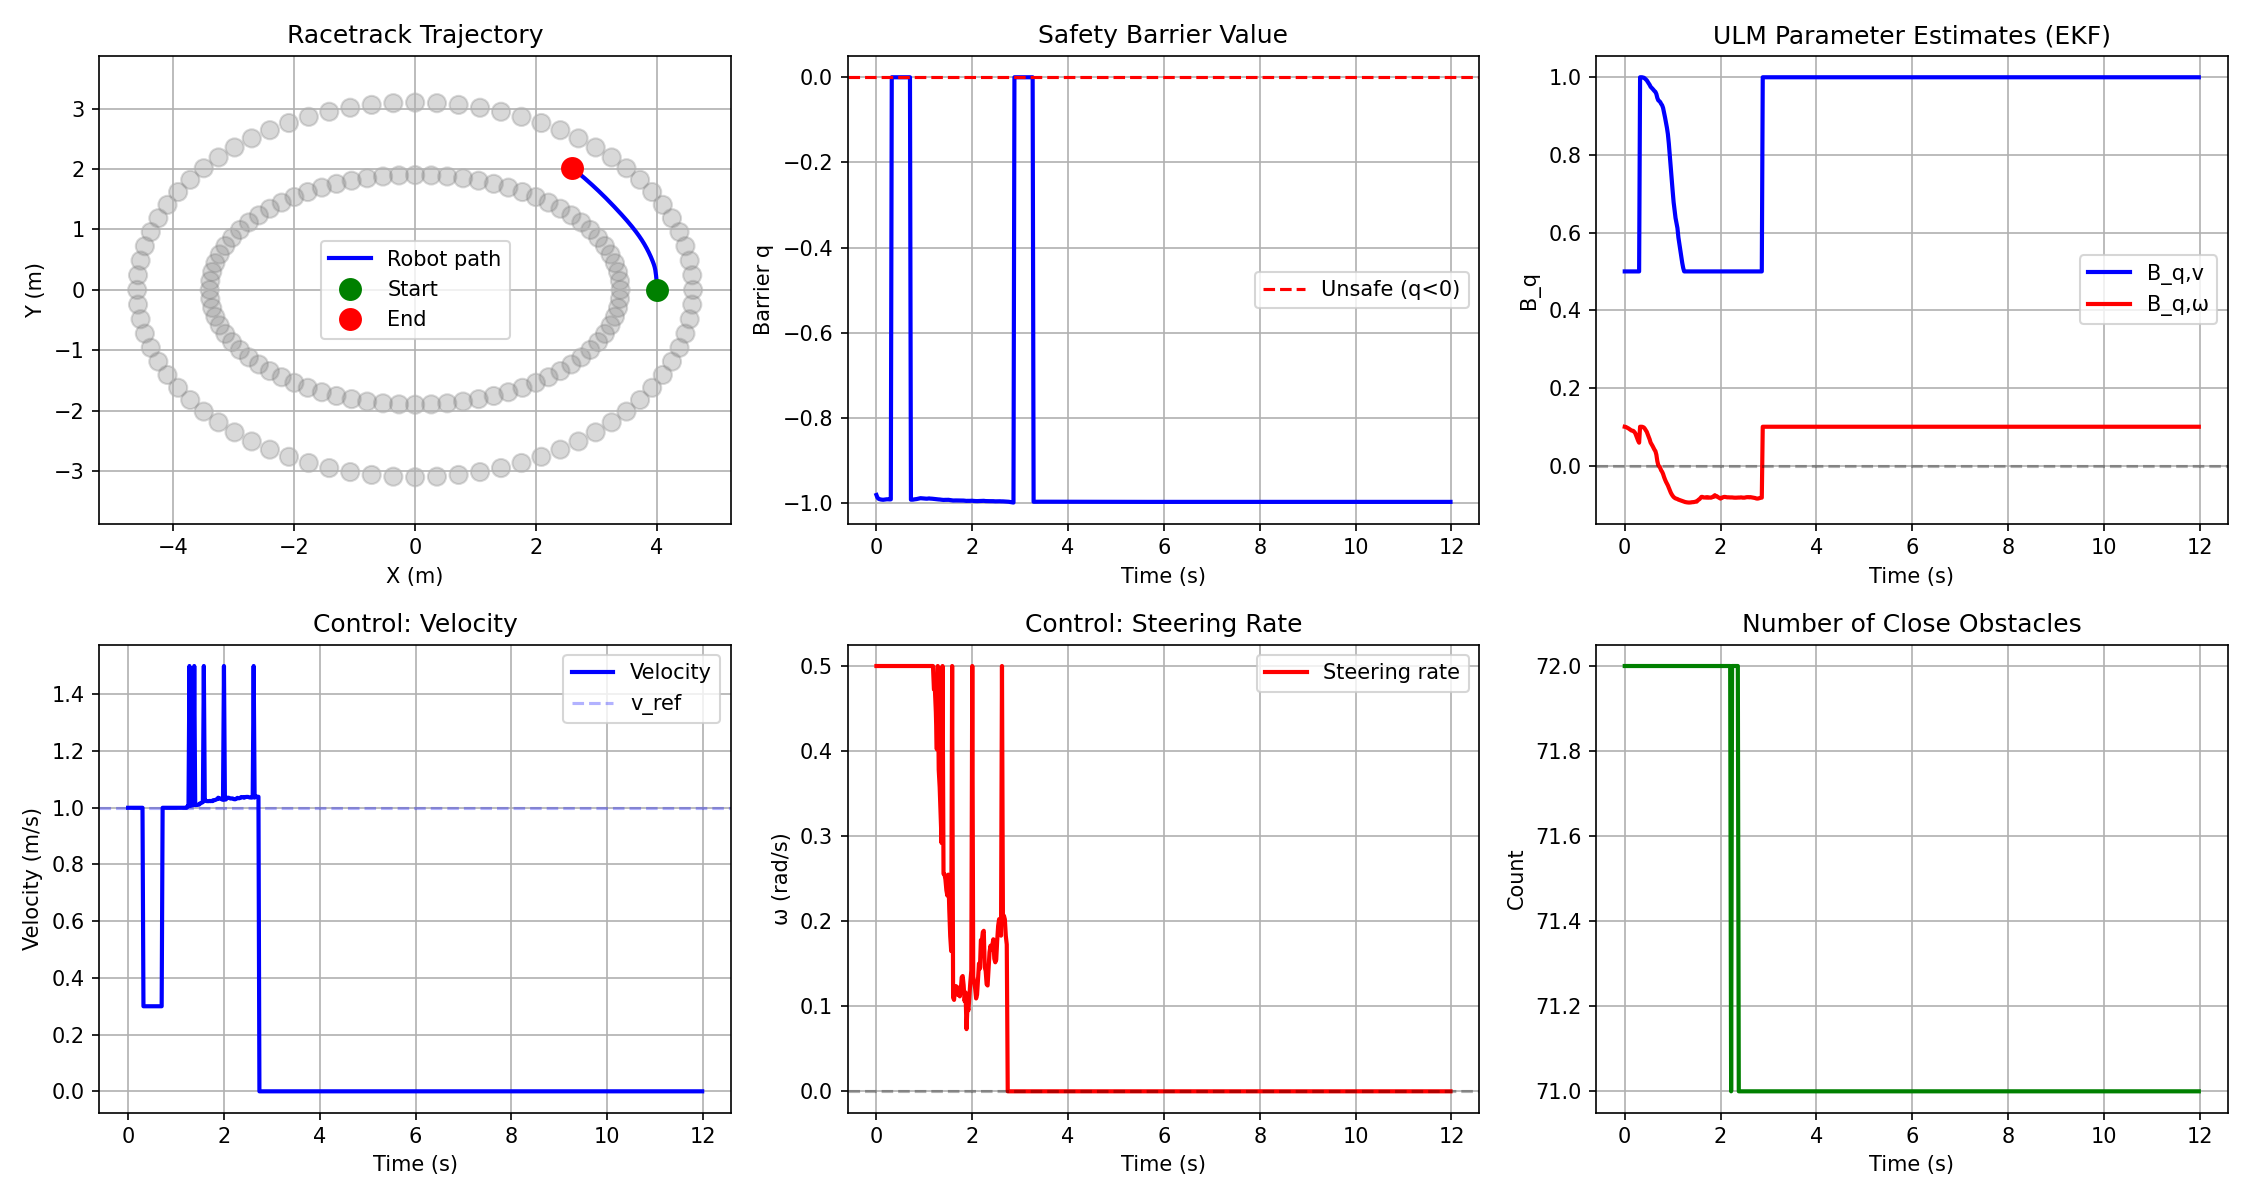
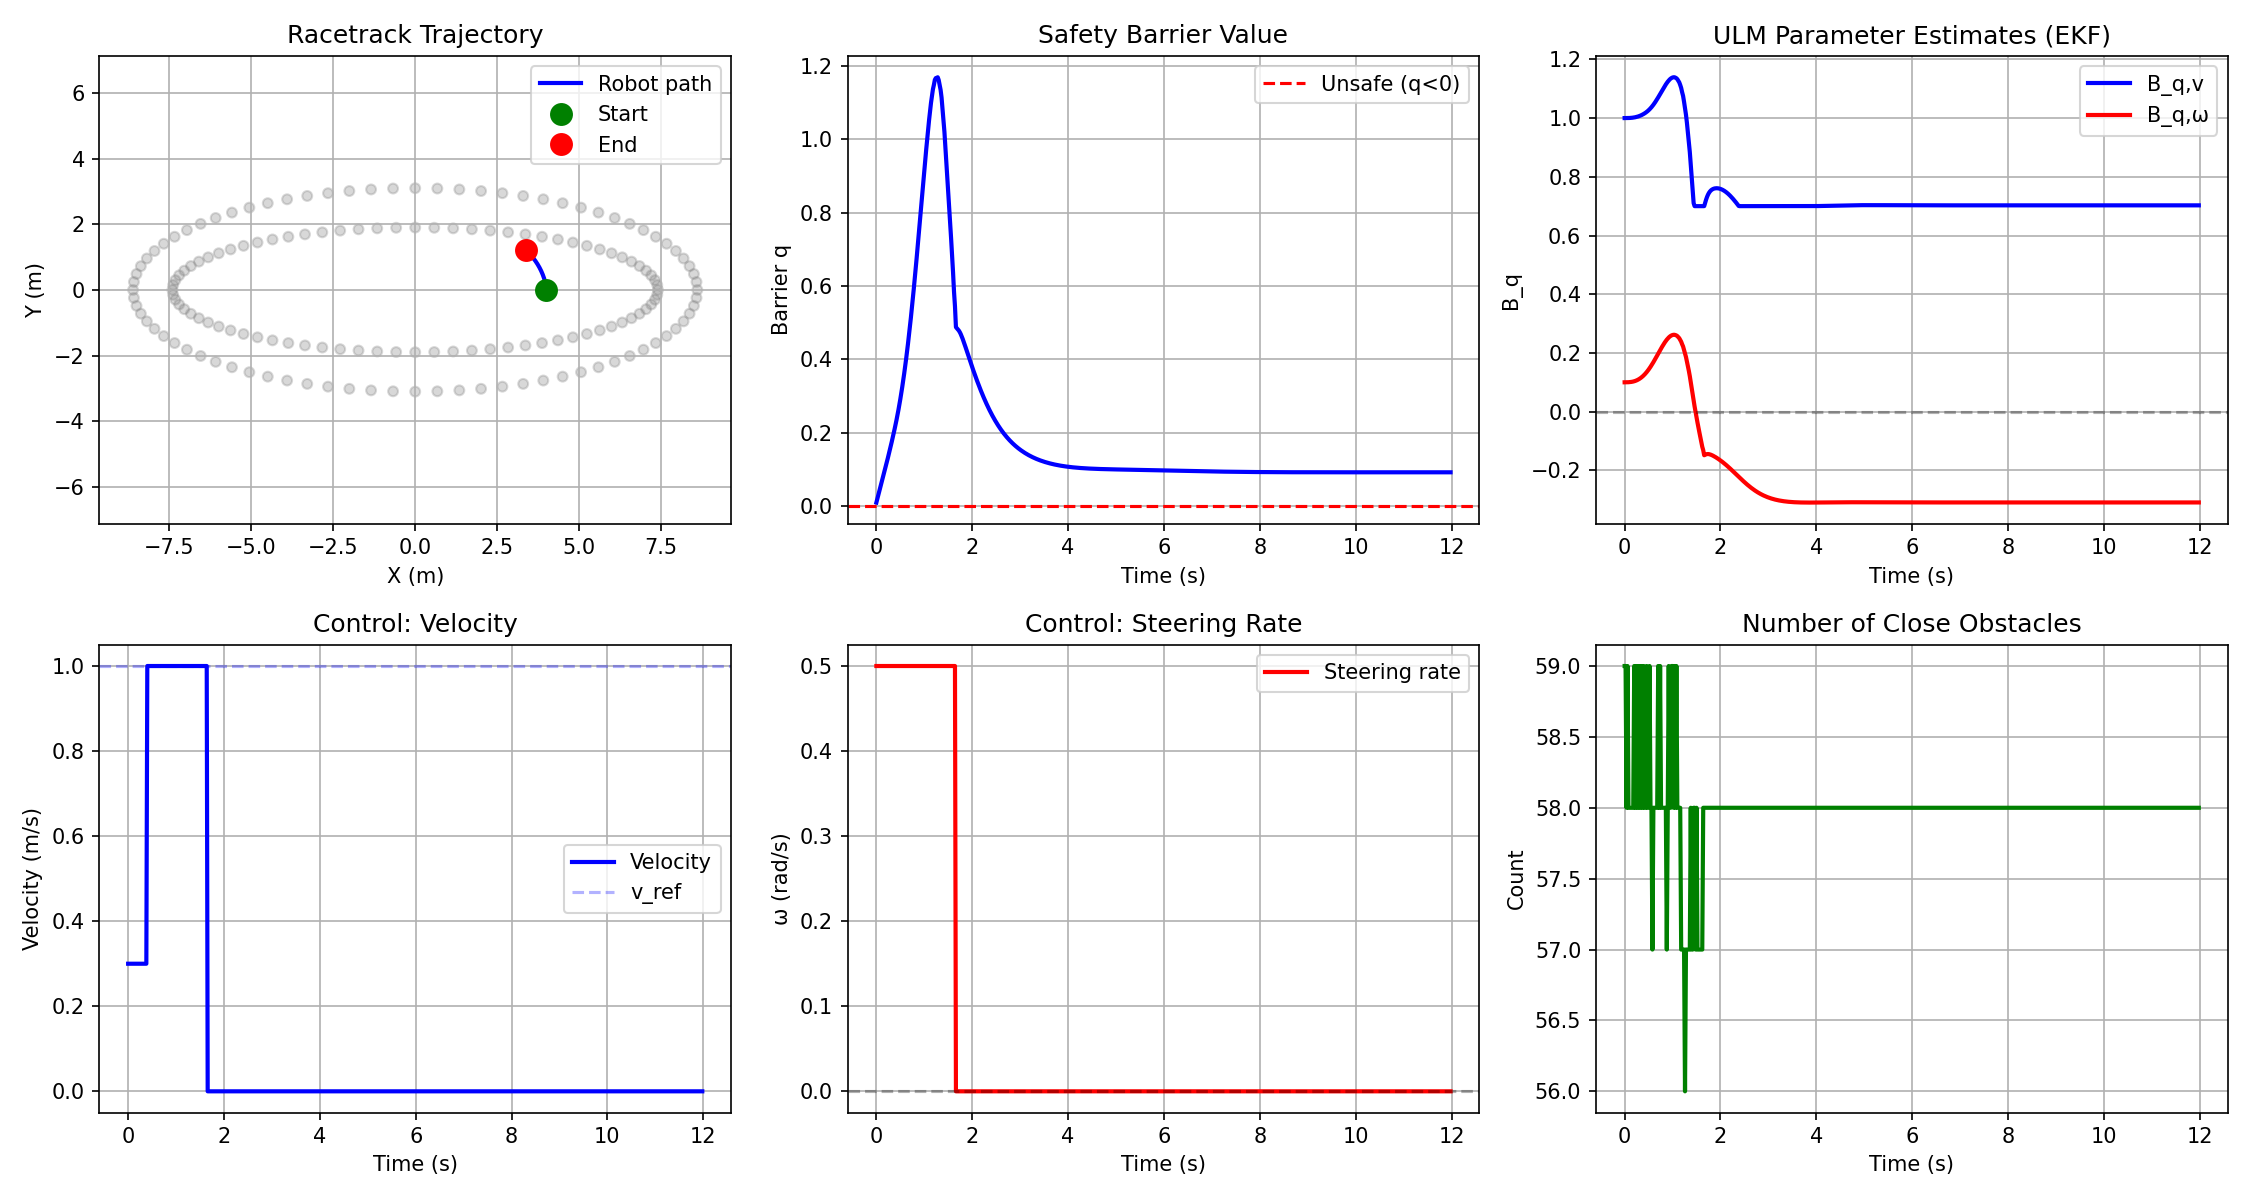
vis

diff --git a/auto_drive/cbf_visualizer.py b/auto_drive/cbf_visualizer.py
@@ -1,0 +1,211 @@
+#!/usr/bin/env python3
+"""
+Real-time visualization of CBF barrier field and LiDAR data
+Shows what the robot "sees" in terms of obstacles and safety barriers
+"""
+import rclpy
+from rclpy.node import Node
+from sensor_msgs.msg import LaserScan
+from nav_msgs.msg import Odometry
+import numpy as np
+import matplotlib.pyplot as plt
+from matplotlib.animation import FuncAnimation
+import cupy as cp
+
+
+class CBFVisualizer(Node):
+    def __init__(self):
+        super().__init__('cbf_visualizer')
+
+        # Subscribe to LiDAR and odometry
+        self.create_subscription(LaserScan, '/scan', self.lidar_callback, 10)
+        self.create_subscription(Odometry, '/odom', self.odom_callback, 10)
+
+        # Data storage
+        self.ranges = None
+        self.angles = None
+        self.obstacle_points = None
+        self.x = 0.0
+        self.y = 0.0
+        self.theta = 0.0
+
+        # GP parameters (match hardware)
+        self.r_max = 5.0
+        self.length_scale = 0.25
+        self.sigma_f = 1.0
+
+        # Setup matplotlib figure
+        self.fig, (self.ax1, self.ax2) = plt.subplots(1, 2, figsize=(14, 6))
+
+        self.get_logger().info('CBF Visualizer started. Close window to exit.')
+
+        # Start animation
+        self.ani = FuncAnimation(self.fig, self.update_plot, interval=100, blit=False)
+        plt.show()
+
+    def odom_callback(self, msg):
+        """Store robot position"""
+        self.x = msg.pose.pose.position.x
+        self.y = msg.pose.pose.position.y
+        quat = msg.pose.pose.orientation
+        siny_cosp = 2.0 * (quat.w * quat.z + quat.x * quat.y)
+        cosy_cosp = 1.0 - 2.0 * (quat.y * quat.y + quat.z * quat.z)
+        self.theta = np.arctan2(siny_cosp, cosy_cosp)
+
+    def lidar_callback(self, msg):
+        """Process LiDAR data"""
+        ranges = np.array(msg.ranges, dtype=np.float32)
+        angles = np.linspace(msg.angle_min, msg.angle_max, len(ranges), dtype=np.float32)
+
+        # Downsample for speed
+        ranges = ranges[::10]
+        angles = angles[::10]
+
+        self.ranges = ranges
+        self.angles = angles
+
+        # Extract obstacle points
+        mask = (ranges < self.r_max) & (ranges > 0.1)
+        filtered_ranges = ranges[mask]
+        filtered_angles = angles[mask]
+
+        x = filtered_ranges * np.cos(filtered_angles)
+        y = filtered_ranges * np.sin(filtered_angles)
+
+        # Downsample
+        x = x[::5]
+        y = y[::5]
+
+        self.obstacle_points = np.column_stack((x, -y))
+
+    def rbf_kernel(self, X1, X2):
+        """RBF kernel for GP"""
+        sqdist = np.sum(X1**2, axis=1, keepdims=True) + np.sum(X2**2, axis=1) - 2 * (X1 @ X2.T)
+        return self.sigma_f**2 * np.exp(-0.5 * sqdist / self.length_scale**2)
+
+    def compute_barrier_field(self, grid_x, grid_y):
+        """Compute barrier function on a grid"""
+        if self.obstacle_points is None or len(self.obstacle_points) == 0:
+            return np.ones_like(grid_x)
+
+        N = len(self.obstacle_points)
+        Y = -np.ones((N, 1))
+
+        # Compute kernel and inverse
+        K = self.rbf_kernel(self.obstacle_points, self.obstacle_points)
+        K_inv = np.linalg.inv(K + 1e-6 * np.eye(N))
+        alpha = K_inv @ (Y - 1.0)
+
+        # Evaluate on grid
+        barrier_values = np.zeros_like(grid_x)
+        for i in range(grid_x.shape[0]):
+            for j in range(grid_x.shape[1]):
+                p = np.array([[grid_x[i, j], grid_y[i, j]]])
+                k_star = self.rbf_kernel(p, self.obstacle_points)
+                h = 1.0 + float(k_star @ alpha)
+                barrier_values[i, j] = h
+
+        return barrier_values
+
+    def update_plot(self, frame):
+        """Update visualization"""
+        if self.ranges is None:
+            return
+
+        # Clear axes
+        self.ax1.clear()
+        self.ax2.clear()
+
+        # === LEFT PLOT: LiDAR Points ===
+        self.ax1.set_title('LiDAR Scan (Robot Frame)', fontsize=14, fontweight='bold')
+        self.ax1.set_xlabel('X (forward, m)')
+        self.ax1.set_ylabel('Y (left, m)')
+        self.ax1.set_xlim(-3, 3)
+        self.ax1.set_ylim(-3, 3)
+        self.ax1.grid(True, alpha=0.3)
+        self.ax1.set_aspect('equal')
+
+        # Plot all LiDAR points
+        if self.ranges is not None:
+            x_all = self.ranges * np.cos(self.angles)
+            y_all = -self.ranges * np.sin(self.angles)
+            valid = (self.ranges > 0.1) & (self.ranges < self.r_max)
+            self.ax1.scatter(x_all[valid], y_all[valid], c='lightgray', s=5, alpha=0.5, label='All LiDAR')
+
+        # Plot obstacle points used by GP
+        if self.obstacle_points is not None and len(self.obstacle_points) > 0:
+            self.ax1.scatter(self.obstacle_points[:, 0], self.obstacle_points[:, 1],
+                           c='red', s=50, marker='x', linewidths=2, label=f'{len(self.obstacle_points)} GP points', zorder=10)
+
+        # Draw robot
+        robot_circle = plt.Circle((0, 0), 0.15, color='blue', fill=True, alpha=0.7, label='Robot')
+        self.ax1.add_patch(robot_circle)
+        self.ax1.arrow(0, 0, 0.3, 0, head_width=0.1, head_length=0.1, fc='blue', ec='blue', zorder=10)
+
+        self.ax1.legend(loc='upper right', fontsize=9)
+
+        # === RIGHT PLOT: Barrier Field ===
+        self.ax2.set_title('GP Barrier Field h(x)', fontsize=14, fontweight='bold')
+        self.ax2.set_xlabel('X (forward, m)')
+        self.ax2.set_ylabel('Y (left, m)')
+        self.ax2.set_xlim(-2, 2)
+        self.ax2.set_ylim(-2, 2)
+        self.ax2.set_aspect('equal')
+
+        # Compute barrier on grid
+        grid_range = 2.0
+        grid_res = 0.05
+        x_grid = np.arange(-grid_range, grid_range, grid_res)
+        y_grid = np.arange(-grid_range, grid_range, grid_res)
+        X_grid, Y_grid = np.meshgrid(x_grid, y_grid)
+
+        Z_grid = self.compute_barrier_field(X_grid, Y_grid)
+
+        # Plot barrier field
+        contour = self.ax2.contourf(X_grid, Y_grid, Z_grid, levels=20, cmap='RdYlGn', alpha=0.8, vmin=-1, vmax=1)
+
+        # Add colorbar if it doesn't exist
+        if not hasattr(self, 'cbar'):
+            self.cbar = plt.colorbar(contour, ax=self.ax2, label='Barrier h(x)')
+
+        # Draw h=0 contour (unsafe boundary)
+        self.ax2.contour(X_grid, Y_grid, Z_grid, levels=[0], colors='red', linewidths=3, linestyles='--')
+
+        # Plot obstacle points
+        if self.obstacle_points is not None and len(self.obstacle_points) > 0:
+            self.ax2.scatter(self.obstacle_points[:, 0], self.obstacle_points[:, 1],
+                           c='black', s=30, marker='x', linewidths=2, zorder=10)
+
+        # Draw robot
+        robot_circle2 = plt.Circle((0, 0), 0.15, color='blue', fill=True, alpha=0.7)
+        self.ax2.add_patch(robot_circle2)
+        self.ax2.arrow(0, 0, 0.3, 0, head_width=0.1, head_length=0.1, fc='blue', ec='blue', zorder=10)
+
+        # Add text with info
+        info_text = f"Length scale: {self.length_scale:.2f}m\n"
+        info_text += f"Obstacles: {len(self.obstacle_points) if self.obstacle_points is not None else 0}\n"
+        info_text += f"Position: ({self.x:.2f}, {self.y:.2f})"
+        self.ax2.text(0.02, 0.98, info_text, transform=self.ax2.transAxes,
+                     verticalalignment='top', fontsize=9,
+                     bbox=dict(boxstyle='round', facecolor='white', alpha=0.8))
+
+        self.ax2.grid(True, alpha=0.3)
+
+        plt.tight_layout()
+
+
+def main(args=None):
+    rclpy.init(args=args)
+    visualizer = CBFVisualizer()
+
+    try:
+        rclpy.spin(visualizer)
+    except KeyboardInterrupt:
+        pass
+    finally:
+        visualizer.destroy_node()
+        rclpy.shutdown()
+
+
+if __name__ == '__main__':
+    main()

diff --git a/visualize_barriers.py b/visualize_barriers.py
@@ -1,0 +1,172 @@
+#!/usr/bin/env python3
+"""
+Offline visualization tool for CBF barrier fields
+Useful for debugging and understanding how the GP barrier works
+"""
+import numpy as np
+import matplotlib.pyplot as plt
+
+
+def rbf_kernel(X1, X2, length_scale, sigma_f):
+    """RBF kernel"""
+    sqdist = np.sum(X1**2, axis=1, keepdims=True) + np.sum(X2**2, axis=1) - 2 * (X1 @ X2.T)
+    return sigma_f**2 * np.exp(-0.5 * sqdist / length_scale**2)
+
+
+def compute_barrier_field(obstacle_points, grid_x, grid_y, length_scale=0.25, sigma_f=1.0):
+    """Compute GP barrier on a grid"""
+    if len(obstacle_points) == 0:
+        return np.ones_like(grid_x)
+
+    N = len(obstacle_points)
+    Y = -np.ones((N, 1))
+
+    # Compute kernel and inverse
+    K = rbf_kernel(obstacle_points, obstacle_points, length_scale, sigma_f)
+    K_inv = np.linalg.inv(K + 1e-6 * np.eye(N))
+    alpha = K_inv @ (Y - 1.0)
+
+    # Evaluate on grid
+    barrier_values = np.zeros_like(grid_x)
+    for i in range(grid_x.shape[0]):
+        for j in range(grid_x.shape[1]):
+            p = np.array([[grid_x[i, j], grid_y[i, j]]])
+            k_star = rbf_kernel(p, obstacle_points, length_scale, sigma_f)
+            h = 1.0 + float(k_star @ alpha)
+            barrier_values[i, j] = h
+
+    return barrier_values
+
+
+def visualize_scenario(obstacle_points, length_scale=0.25, title="CBF Barrier Field"):
+    """Visualize a specific scenario"""
+    fig, (ax1, ax2) = plt.subplots(1, 2, figsize=(14, 6))
+
+    # === LEFT: Top-down view ===
+    ax1.set_title('Obstacle Configuration', fontsize=14, fontweight='bold')
+    ax1.set_xlabel('X (m)')
+    ax1.set_ylabel('Y (m)')
+    ax1.set_xlim(-3, 3)
+    ax1.set_ylim(-3, 3)
+    ax1.grid(True, alpha=0.3)
+    ax1.set_aspect('equal')
+
+    # Plot obstacles
+    if len(obstacle_points) > 0:
+        ax1.scatter(obstacle_points[:, 0], obstacle_points[:, 1],
+                   c='red', s=100, marker='x', linewidths=3, label=f'{len(obstacle_points)} obstacles', zorder=10)
+
+    # Draw robot
+    robot_circle = plt.Circle((0, 0), 0.15, color='blue', fill=True, alpha=0.7, label='Robot')
+    ax1.add_patch(robot_circle)
+    ax1.arrow(0, 0, 0.3, 0, head_width=0.1, head_length=0.1, fc='blue', ec='blue', zorder=10)
+
+    ax1.legend(loc='upper right', fontsize=10)
+
+    # === RIGHT: Barrier field ===
+    ax2.set_title(f'{title}\nLength scale = {length_scale:.2f}m', fontsize=14, fontweight='bold')
+    ax2.set_xlabel('X (m)')
+    ax2.set_ylabel('Y (m)')
+    ax2.set_xlim(-3, 3)
+    ax2.set_ylim(-3, 3)
+    ax2.set_aspect('equal')
+
+    # Compute barrier field
+    grid_range = 3.0
+    grid_res = 0.05
+    x_grid = np.arange(-grid_range, grid_range, grid_res)
+    y_grid = np.arange(-grid_range, grid_range, grid_res)
+    X_grid, Y_grid = np.meshgrid(x_grid, y_grid)
+
+    Z_grid = compute_barrier_field(obstacle_points, X_grid, Y_grid, length_scale)
+
+    # Plot barrier field
+    contour = ax2.contourf(X_grid, Y_grid, Z_grid, levels=30, cmap='RdYlGn', alpha=0.9)
+    plt.colorbar(contour, ax=ax2, label='Barrier h(x)')
+
+    # Draw h=0 contour (unsafe boundary)
+    ax2.contour(X_grid, Y_grid, Z_grid, levels=[0], colors='red', linewidths=3, linestyles='--', label='h=0 (unsafe)')
+
+    # Plot obstacles
+    if len(obstacle_points) > 0:
+        ax2.scatter(obstacle_points[:, 0], obstacle_points[:, 1],
+                   c='black', s=80, marker='x', linewidths=2, zorder=10)
+
+    # Draw robot
+    robot_circle2 = plt.Circle((0, 0), 0.15, color='blue', fill=True, alpha=0.7)
+    ax2.add_patch(robot_circle2)
+    ax2.arrow(0, 0, 0.3, 0, head_width=0.1, head_length=0.1, fc='blue', ec='blue', zorder=10)
+
+    ax2.grid(True, alpha=0.3)
+    ax2.legend(loc='upper right', fontsize=10)
+
+    plt.tight_layout()
+    plt.show()
+
+
+def compare_length_scales():
+    """Compare different length scales"""
+    # Create a simple scenario
+    obstacles = np.array([
+        [1.5, 0.0],
+        [0.8, 1.2],
+        [0.8, -1.2]
+    ])
+
+    fig, axes = plt.subplots(2, 2, figsize=(14, 12))
+    length_scales = [0.1, 0.25, 0.5, 1.0]
+
+    for idx, ls in enumerate(length_scales):
+        ax = axes[idx // 2, idx % 2]
+        ax.set_title(f'Length Scale = {ls:.2f}m', fontsize=12, fontweight='bold')
+        ax.set_xlabel('X (m)')
+        ax.set_ylabel('Y (m)')
+        ax.set_xlim(-2, 2)
+        ax.set_ylim(-2, 2)
+        ax.set_aspect('equal')
+
+        # Compute barrier field
+        x_grid = np.arange(-2, 2, 0.05)
+        y_grid = np.arange(-2, 2, 0.05)
+        X_grid, Y_grid = np.meshgrid(x_grid, y_grid)
+        Z_grid = compute_barrier_field(obstacles, X_grid, Y_grid, length_scale=ls)
+
+        # Plot
+        contour = ax.contourf(X_grid, Y_grid, Z_grid, levels=20, cmap='RdYlGn', alpha=0.9)
+        ax.contour(X_grid, Y_grid, Z_grid, levels=[0], colors='red', linewidths=2, linestyles='--')
+        plt.colorbar(contour, ax=ax)
+
+        # Obstacles
+        ax.scatter(obstacles[:, 0], obstacles[:, 1], c='black', s=80, marker='x', linewidths=2, zorder=10)
+
+        # Robot
+        robot_circle = plt.Circle((0, 0), 0.15, color='blue', fill=True, alpha=0.7)
+        ax.add_patch(robot_circle)
+        ax.arrow(0, 0, 0.3, 0, head_width=0.1, head_length=0.1, fc='blue', ec='blue', zorder=10)
+        ax.grid(True, alpha=0.3)
+
+    plt.suptitle('Effect of Length Scale on Barrier Field', fontsize=16, fontweight='bold')
+    plt.tight_layout()
+    plt.show()
+
+
+if __name__ == '__main__':
+    print("CBF Barrier Visualization Tool")
+    print("=" * 50)
+    print("\n1. Single obstacle ahead")
+    obstacles1 = np.array([[1.5, 0.0]])
+    visualize_scenario(obstacles1, length_scale=0.25, title="Single Obstacle")
+
+    print("\n2. Narrow corridor")
+    obstacles2 = np.array([
+        [1.0, 0.8],
+        [1.0, -0.8],
+        [1.5, 0.8],
+        [1.5, -0.8],
+        [2.0, 0.8],
+        [2.0, -0.8]
+    ])
+    visualize_scenario(obstacles2, length_scale=0.25, title="Narrow Corridor")
+
+    print("\n3. Compare length scales")
+    compare_length_scales()

diff --git a/setup.py b/setup.py
@@ -22,7 +22,8 @@ setup(
         'console_scripts': [
             'Model_Free_Node = auto_drive.Model_Free_Node:main',
             'cbf_Node = auto_drive.cbf_Node:main',
-            'cbf_Node_refactored = auto_drive.cbf_Node_refactored:main'
+            'cbf_Node_refactored = auto_drive.cbf_Node_refactored:main',
+            'cbf_visualizer = auto_drive.cbf_visualizer:main'
         ],
     },
 )
